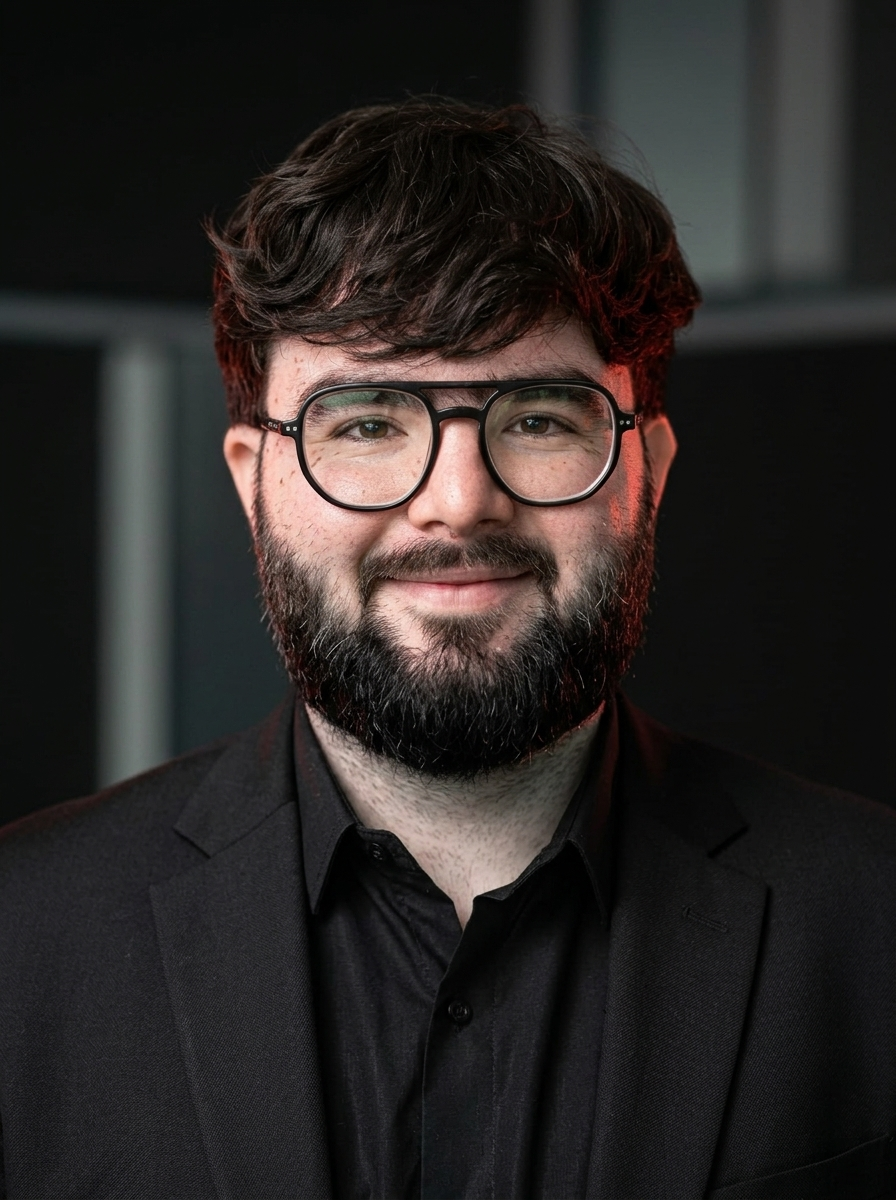
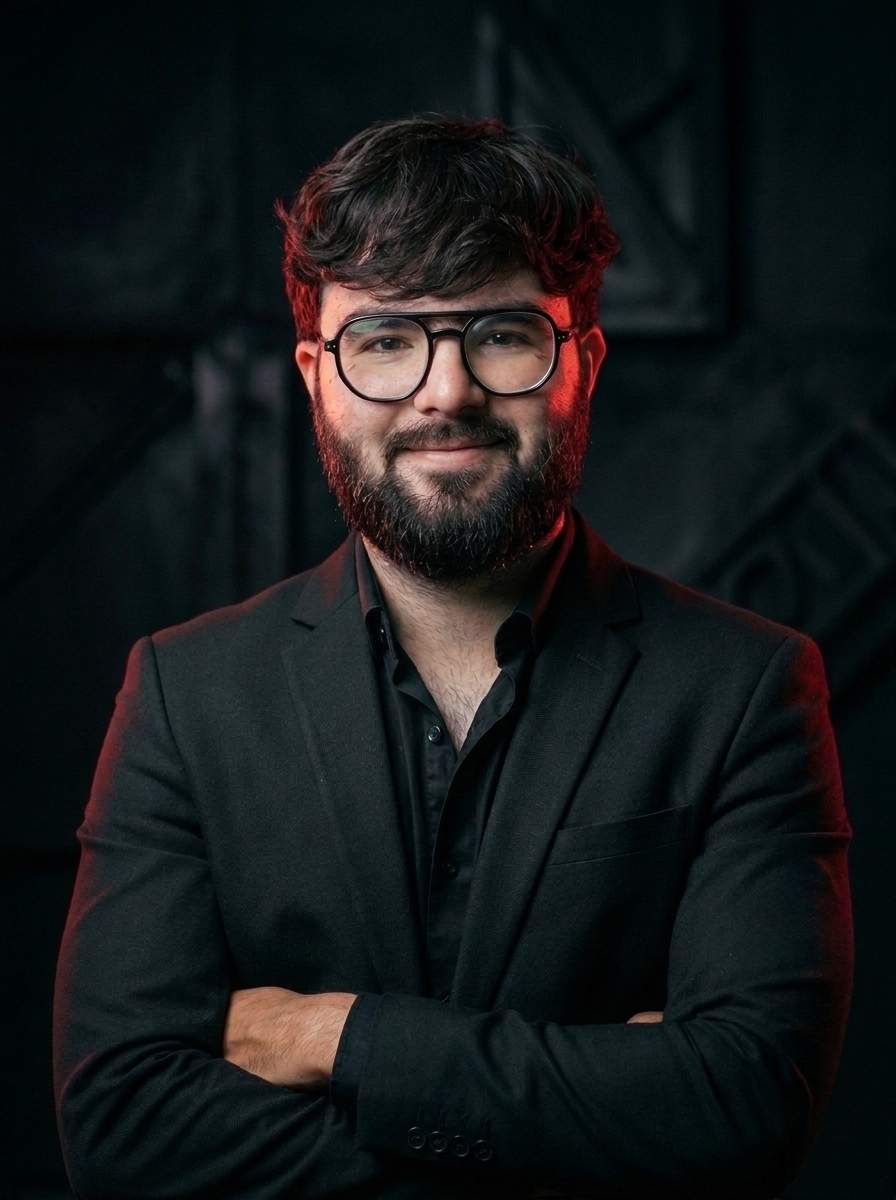
feat(hero): integrate pristine charismatic portrait with authentic studio lighting, crisp high-DPI contrast, and clean aesthetic

diff --git a/src/components/Hero/Hero.css b/src/components/Hero/Hero.css
@@ -551,14 +551,16 @@
   aspect-ratio: 3 / 4;
   object-fit: cover;
   display: block;
-  filter: contrast(1.05) brightness(0.98);
-  mask-image: linear-gradient(to bottom, black 78%, transparent 100%);
-  -webkit-mask-image: linear-gradient(to bottom, black 78%, transparent 100%);
-  transition: transform 0.5s cubic-bezier(0.16, 1, 0.3, 1);
+  filter: contrast(1.04) brightness(0.99);
+  image-rendering: -webkit-optimize-contrast;
+  mask-image: linear-gradient(to bottom, black 82%, transparent 100%);
+  -webkit-mask-image: linear-gradient(to bottom, black 82%, transparent 100%);
+  transition: transform 0.5s cubic-bezier(0.16, 1, 0.3, 1), filter 0.3s ease;
 }
 
 .hero__portrait-wrapper:hover .hero__portrait-img {
-  transform: scale(1.02);
+  transform: scale(1.025);
+  filter: contrast(1.06) brightness(1.01);
 }
 
 .hero__portrait-fade {
